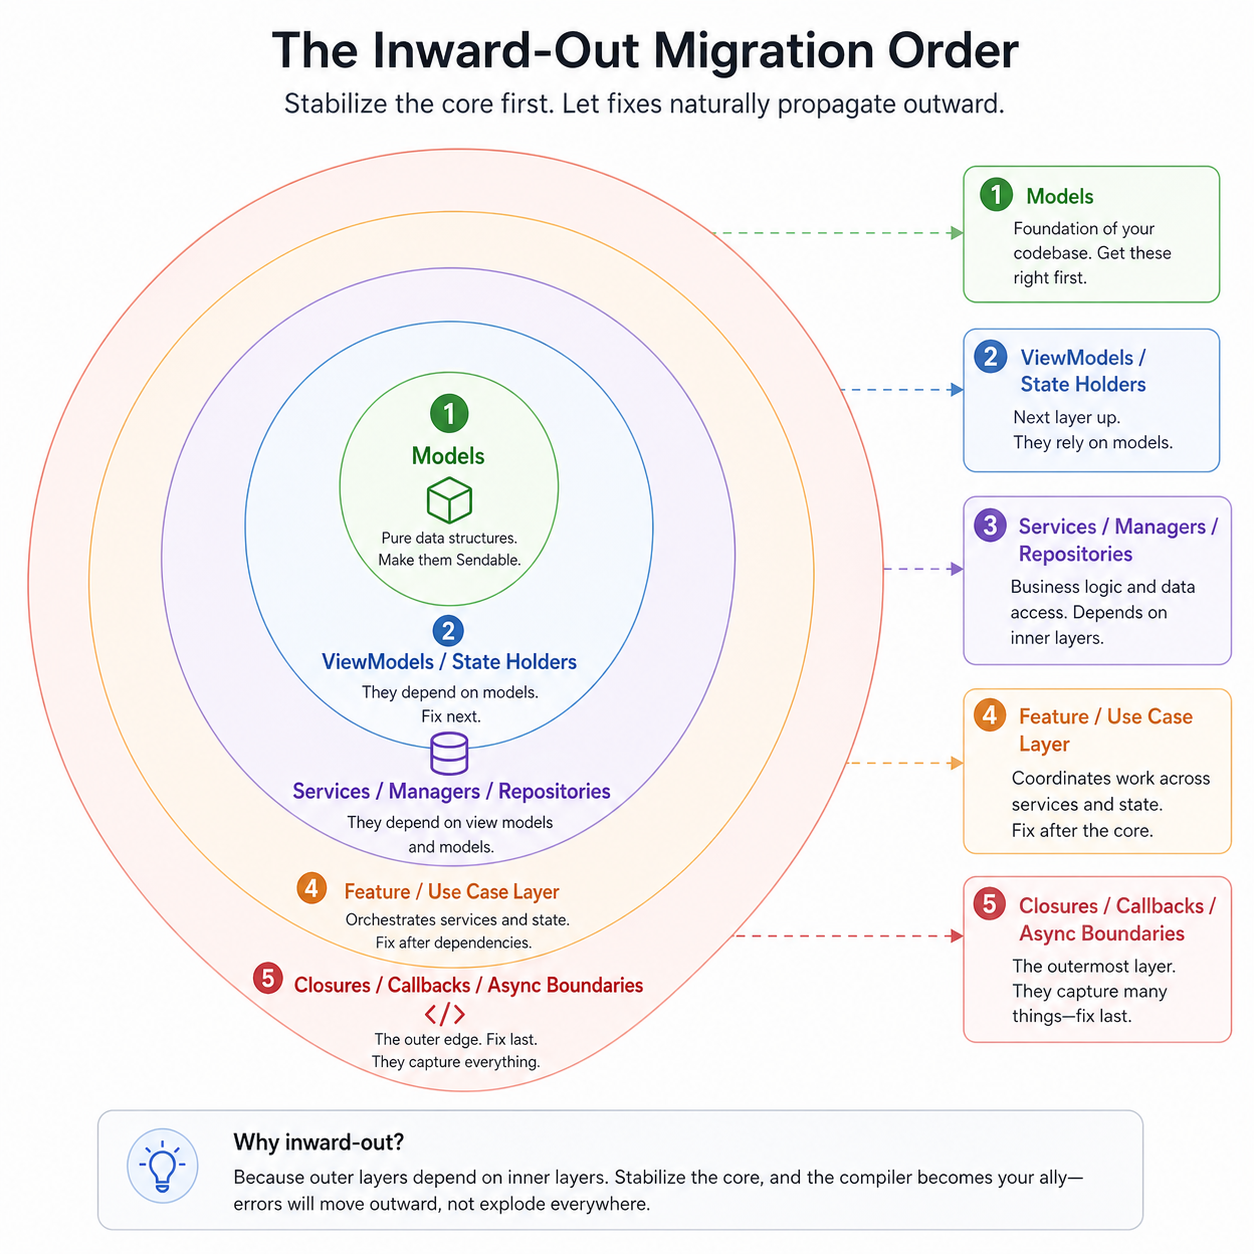
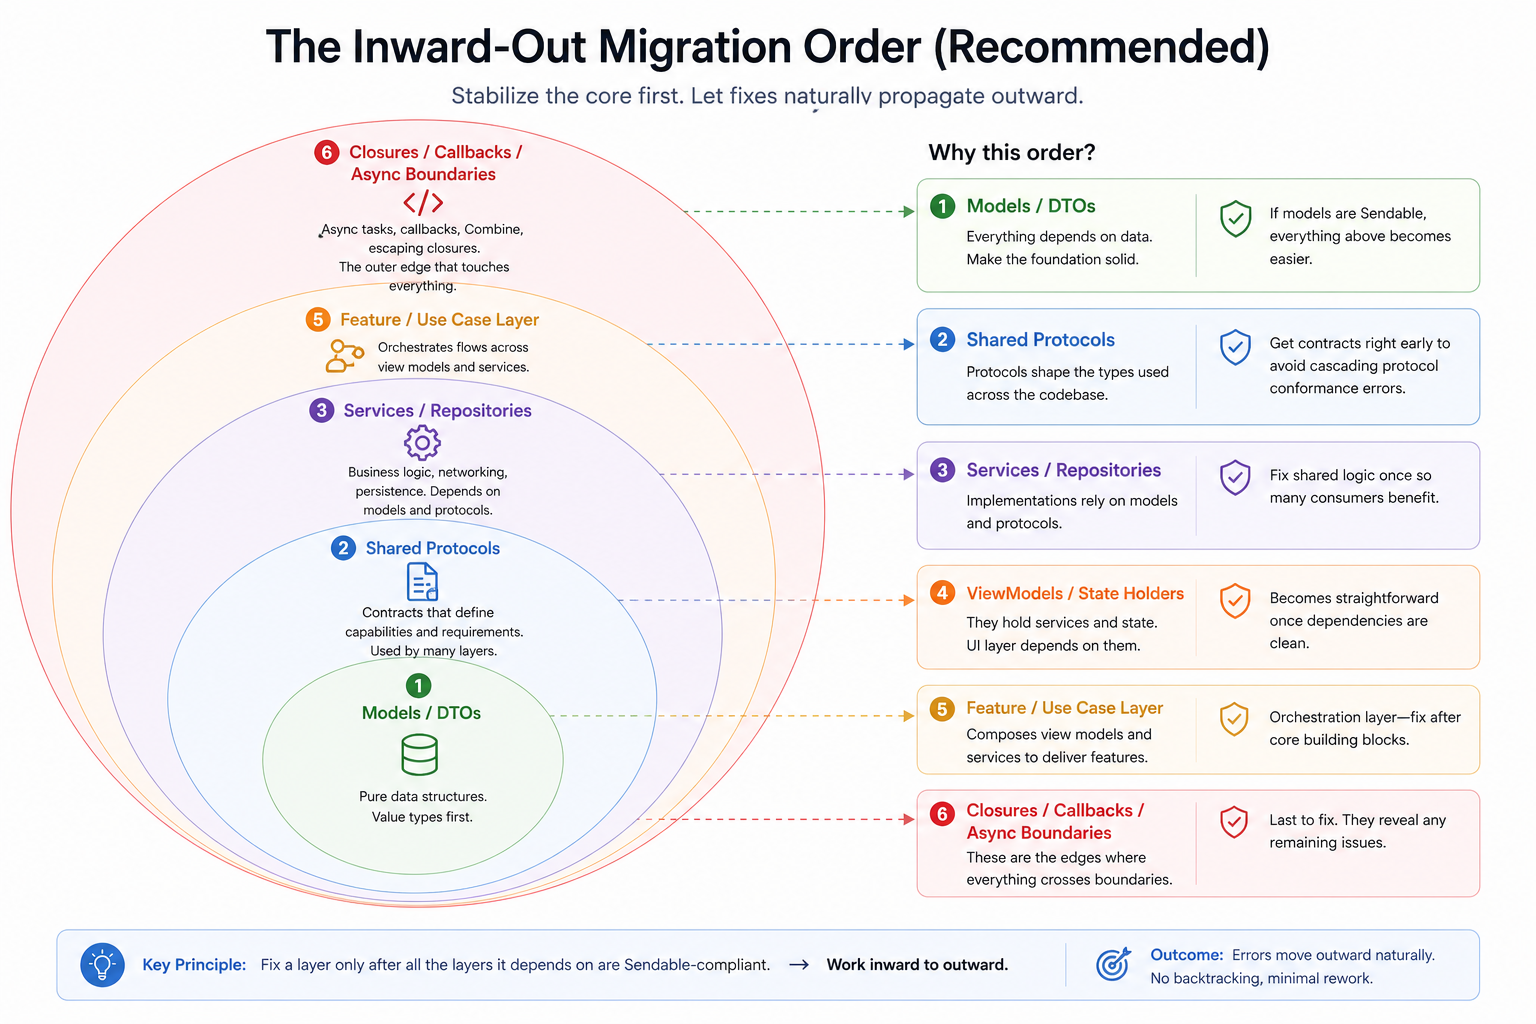
feat: replace inward-out diagram with corrected 6-layer version
New image adds Shared Protocols as layer 2 (inner), fixes layer ordering to match prose logic, and extends to 6 layers with Feature/Use Case Layer.

diff --git a/_posts/2026-04-26-sendable-migration-large-codebase-mental-models.md b/_posts/2026-04-26-sendable-migration-large-codebase-mental-models.md
@@ -325,7 +325,7 @@ Start from your leaf types — models, value objects, utilities with no dependen
 
 {% include image.html
    src="/images/blog/sendable-migration-large-codebase-mental-models/inward-out-migration-order.png"
-   alt="The Inward-Out Migration Order — concentric circles showing Models at the core, then ViewModels, Services, Feature layer, and Closures at the outermost ring"
+   alt="The Inward-Out Migration Order — concentric circles showing Models / DTOs at the core, then Shared Protocols, Services / Repositories, ViewModels, Feature / Use Case Layer, and Closures at the outermost ring"
    size="full"
    caption="Stabilize the core first. Let fixes naturally propagate outward." %}
 
